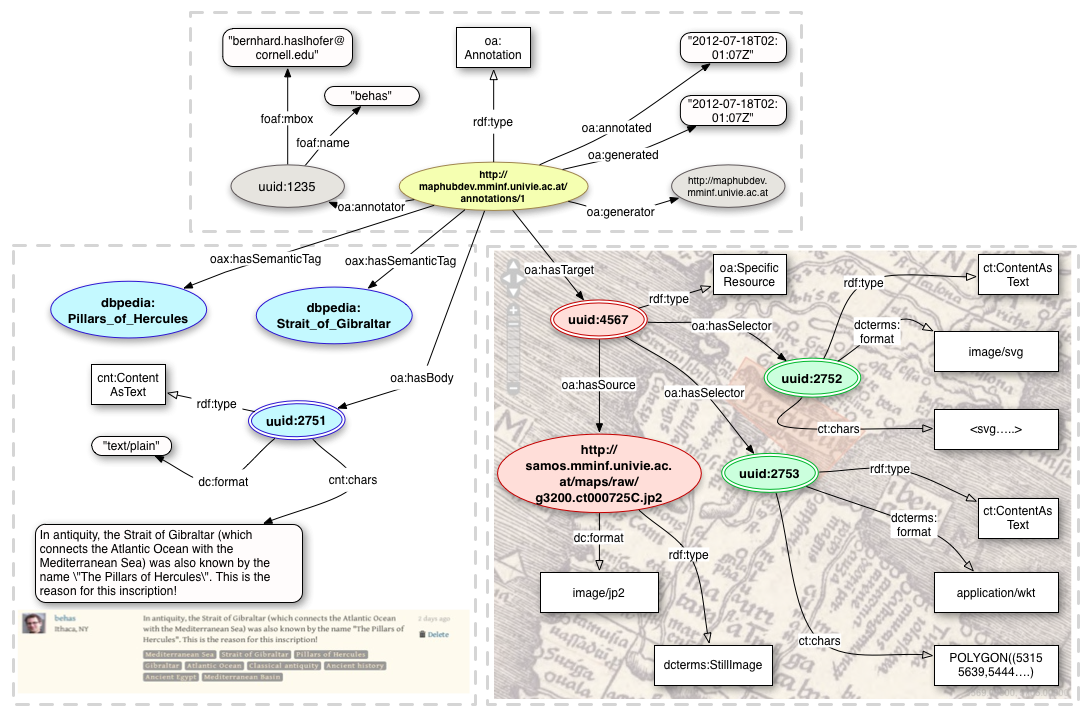
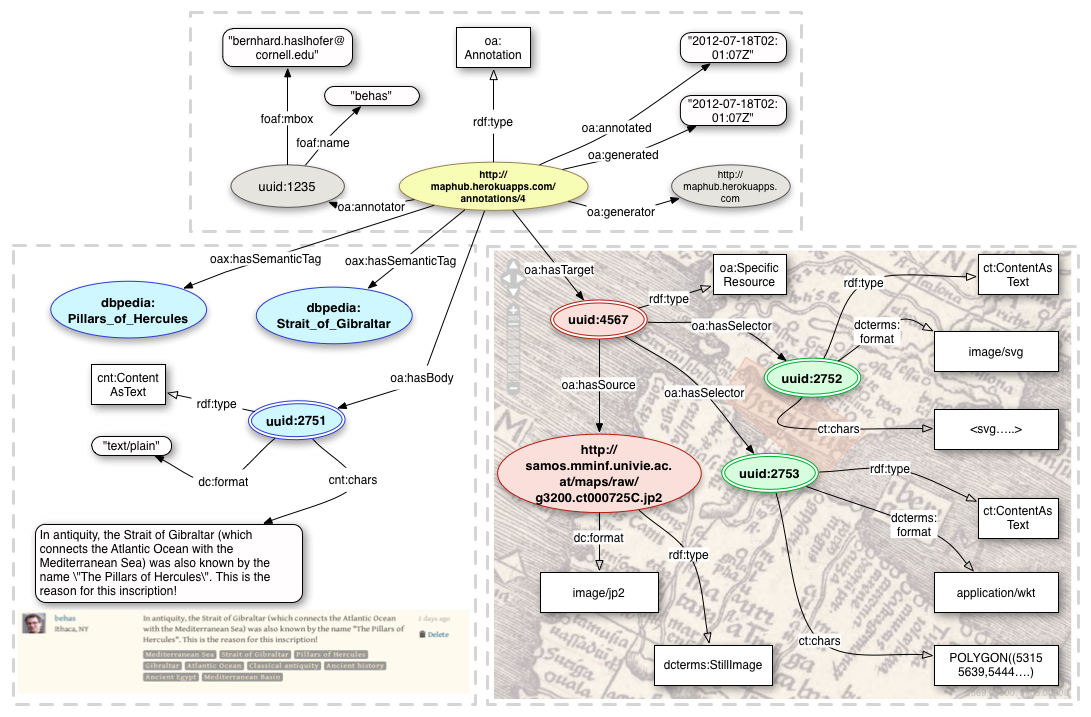
updated api to reflect new deployment environment

Changed region(s): [[0.6233, 0.2148, 0.7479, 0.3068], [0.374, 0.2455, 0.5298, 0.2762], [0.5298, 0.2762, 0.6233, 0.3068]]

diff --git a/index.html b/index.html
@@ -195,7 +195,7 @@ Scholars who study these maps often want to take notes on certain maps or map re
 <p>Georeference Annotations in Maphub are dereferenceable Web resources. When a client issues an HTTP GET request against the Georeference Annotation HTTP URI, Maphub determines the response format based on the value of the HTTP Accept header submitted by the client.</p>
 
 <p>Figure 3 shows an example Georeference Annotation represented in the Open Annotation model. It can be retrieved by executing the following curl request:</br>
-<code>curl -H "Accept: text/turtle" http://maphubdev.mminf.univie.ac.at/control_points/1</code>
+<code>curl -H "Accept: text/turtle" http://maphub.herokuapp.com/control_points/4</code>
 </p>
 
 <center>
@@ -214,36 +214,39 @@ Scholars who study these maps often want to take notes on certain maps or map re
         <div class="exsubhead">Georeference Annotation - Turtle serialization</div>
         <pre class="code">
 
-        @prefix dc: &lt;http://purl.org/dc/elements/1.1/&gt; .
-        @prefix dcterms: &lt;http://purl.org/dc/dcmitype/&gt; .
-        @prefix foaf: &lt;http://xmlns.com/foaf/spec/&gt; .
-        @prefix maphub: &lt;http://maphub.info/ns/vocab#&gt; .
-        @prefix oa: &lt;http://www.w3.org/ns/openannotation/core/&gt; .
-        @prefix oax: &lt;http://www.w3.org/ns/openannotation/extensions/&gt; .
         @prefix rdf: &lt;http://www.w3.org/1999/02/22-rdf-syntax-ns#&gt; .
+        @prefix oa: &lt;http://www.w3.org/ns/openannotation/core/&gt; .
+        @prefix foaf: &lt;http://xmlns.com/foaf/spec/&gt; .
+        @prefix oax: &lt;http://www.w3.org/ns/openannotation/extensions/&gt; .
+        @prefix dcterms: &lt;http://purl.org/dc/dcmitype/&gt; .
+        @prefix dc: &lt;http://purl.org/dc/elements/1.1/&gt; .
+        @prefix maphub: &lt;http://maphub.info/ns/vocab#GeoReference&gt; .
 
-        &lt;http://maphubdev.mminf.univie.ac.at/control_points/1&gt; a oa:Annotation,
-             oax:Tagging,
-             maphub:GeoReference;
-           oa:annotated &quot;2012-07-18T02:01:07Z&quot;^^&lt;http://www.w3.org/2001/XMLSchema#dateTime&gt;;
-           oa:annotator &lt;a88df844-d14b-11e1-b9b2-00163e110825&gt;;
-           oa:generated &quot;2012-07-18T02:01:07Z&quot;^^&lt;http://www.w3.org/2001/XMLSchema#dateTime&gt;;
-           oa:generator &lt;http://maphubdev.mminf.univie.ac.at&gt;;
-           oa:hasTarget &lt;a88ea76c-d14b-11e1-b9b2-00163e110825&gt;;
-           oax:hasSemanticTag &lt;http://sws.geonames.org/2643743/&gt; .
+        &lt;http://maphub.herokuapp.com/control_points/4&gt;
+            a maphub:GeoReference, oa:Annotation, oax:Tagging ;
+            oa:annotated &quot;2012-08-17T17:13:41Z&quot;^^&lt;http://www.w3.org/2001/XMLSchema#dateTime&gt; ;
+            oa:annotator &lt;http://maphub.herokuapp.com/control_points/881c00ca-e892-11e1-a637-1231381d2be6&gt; ;
+            oa:generated &quot;2012-08-17T17:13:41Z&quot;^^&lt;http://www.w3.org/2001/XMLSchema#dateTime&gt; ;
+            oa:generator &lt;http://maphub.herokuapp.com&gt; ;
+            oa:hasTarget &lt;http://maphub.herokuapp.com/control_points/8824e514-e892-11e1-a637-1231381d2be6&gt; ;
+            oax:hasSemanticTag &lt;http://sws.geonames.org/2643743/&gt; .
 
-        &lt;a88df844-d14b-11e1-b9b2-00163e110825&gt; foaf:mbox &quot;bernhard.haslhofer@cornell.edu&quot;;
-           foaf:name &quot;behas&quot; .
+        &lt;http://maphub.herokuapp.com/control_points/881c00ca-e892-11e1-a637-1231381d2be6&gt;
+            foaf:mbox &quot;bernhard.haslhofer@cornell.edu&quot; ;
+            foaf:name &quot;behas&quot; .
 
-        &lt;a88ea76c-d14b-11e1-b9b2-00163e110825&gt; a oa:SpecificResource;
-           oa:hasSelector &lt;a88f6292-d14b-11e1-b9b2-00163e110825&gt;;
-           oa:hasSource &lt;http://samos.mminf.univie.ac.at/maps/raw/g3200.ct000725C.jp2&gt; .
+        &lt;http://maphub.herokuapp.com/control_points/8824e514-e892-11e1-a637-1231381d2be6&gt;
+            a oa:SpecificResource ;
+            oa:hasSelector &lt;http://maphub.herokuapp.com/control_points/88254b62-e892-11e1-a637-1231381d2be6&gt; ;
+            oa:hasSource &lt;http://samos.mminf.univie.ac.at/maps/raw/g3200.ct000725C.jp2&gt; .
 
-        &lt;a88f6292-d14b-11e1-b9b2-00163e110825&gt; a oa:FragmentSelector;
-           rdf:value &quot;xywh=6550,6228,1,1&quot; .
+        &lt;http://maphub.herokuapp.com/control_points/88254b62-e892-11e1-a637-1231381d2be6&gt;
+            a oa:FragmentSelector ;
+            rdf:value &quot;xywh=6551,6231,1,1&quot; .
 
-        &lt;http://samos.mminf.univie.ac.at/maps/raw/g3200.ct000725C.jp2&gt; a dcterms:StillImage;
-           dc:format &quot;image/jp2&quot; .
+        &lt;http://samos.mminf.univie.ac.at/maps/raw/g3200.ct000725C.jp2&gt;
+            dc:format &quot;image/jp2&quot; ;
+            a dcterms:StillImage .
 
         </pre>
         </td>
@@ -260,7 +263,7 @@ Scholars who study these maps often want to take notes on certain maps or map re
 <p>Figure 4 shows an example commentarial map annotation created in Maphub.</p>
 
 <p>The annotation can be retrieved by executing the following curl request:
-<code>curl -H "Accept: text/turtle" http://maphubdev.mminf.univie.ac.at/annotations/1</code>
+<code>curl -H "Accept: text/turtle" http://maphub.herokuapp.com/annotations/4</code>
 </p>
 
 <center>
@@ -311,11 +314,11 @@ Scholars who study these maps often want to take notes on certain maps or map re
             @prefix oax: &lt;http://www.w3.org/ns/openannotation/extensions/&gt; .
             @prefix rdf: &lt;http://www.w3.org/1999/02/22-rdf-syntax-ns#&gt; .
 
-            &lt;http://maphubdev.mminf.univie.ac.at/annotations/1&gt; a oa:Annotation;
+            &lt;http://maphub.herokuapp.com/annotations/4&gt; a oa:Annotation;
                oa:annotated &quot;2012-07-18T02:03:58Z&quot;^^&lt;http://www.w3.org/2001/XMLSchema#dateTime&gt;;
                oa:annotator &lt;274c4218-d14b-11e1-b9b2-00163e110825&gt;;
                oa:generated &quot;2012-07-18T02:03:58Z&quot;^^&lt;http://www.w3.org/2001/XMLSchema#dateTime&gt;;
-               oa:generator &lt;http://maphubdev.mminf.univie.ac.at&gt;;
+               oa:generator &lt;http://maphub.herokuapp.com&gt;;
                oa:hasBody &lt;275163a6-d14b-11e1-b9b2-00163e110825&gt;;
                oa:hasTarget &lt;2751d020-d14b-11e1-b9b2-00163e110825&gt;;
                oax:hasSemanticTag &lt;http://dbpedia.org/resource/Mediterranean_Sea&gt;,
@@ -369,9 +372,9 @@ Scholars who study these maps often want to take notes on certain maps or map re
 
 <p>An annotation index can be retrieved by executing the following curl request:
 <br/>
-<code>curl http://maphubdev.mminf.univie.ac.at/control_points.rdf</code>
+<code>curl http://maphub.herokuapp.com/control_points.rdf</code>
 <br/>
-<code>curl http://maphubdev.mminf.univie.ac.at/annotations.rdf</code>
+<code>curl http://maphub.herokuapp.com/annotations.rdf</code>
 <br/>
 </p>
 
@@ -396,19 +399,19 @@ Scholars who study these maps often want to take notes on certain maps or map re
                 xmlns:dc=&quot;http://purl.org/dc/elements/1.1/&quot;
                 xmlns:foaf=&quot;http://xmlns.com/foaf/0.1/&quot; &gt;
 
-                &lt;rdf:Description rdf:about=&quot;http://maphubdev.mminf.univie.ac.at/control_points&quot;&gt;
+                &lt;rdf:Description rdf:about=&quot;http://maphub.herokuapp.com/control_points&quot;&gt;
                     &lt;rdf:type rdf:resource=&quot;http://www.openarchives.org/ore/terms/Aggregation&quot;/&gt;
                     &lt;dc:title&gt;Maphub Controlpoints&lt;/dc:title&gt;
-                    &lt;ore:aggregates rdf:resource=&quot;http://maphubdev.mminf.univie.ac.at/control_points/1&quot;/&gt;
-                    &lt;ore:aggregates rdf:resource=&quot;http://maphubdev.mminf.univie.ac.at/control_points/2&quot;/&gt;
-                    &lt;ore:aggregates rdf:resource=&quot;http://maphubdev.mminf.univie.ac.at/control_points/3&quot;/&gt;
-                    &lt;ore:aggregates rdf:resource=&quot;http://maphubdev.mminf.univie.ac.at/control_points/4&quot;/&gt;
-                    &lt;ore:aggregates rdf:resource=&quot;http://maphubdev.mminf.univie.ac.at/control_points/9&quot;/&gt;
-                    &lt;ore:aggregates rdf:resource=&quot;http://maphubdev.mminf.univie.ac.at/control_points/10&quot;/&gt;
-                    &lt;ore:aggregates rdf:resource=&quot;http://maphubdev.mminf.univie.ac.at/control_points/11&quot;/&gt;
-                    &lt;ore:aggregates rdf:resource=&quot;http://maphubdev.mminf.univie.ac.at/control_points/12&quot;/&gt;
-                    &lt;ore:aggregates rdf:resource=&quot;http://maphubdev.mminf.univie.ac.at/control_points/13&quot;/&gt;
-                    &lt;ore:aggregates rdf:resource=&quot;http://maphubdev.mminf.univie.ac.at/control_points/14&quot;/&gt;
+                    &lt;ore:aggregates rdf:resource=&quot;http://maphub.herokuapp.com/control_points/1&quot;/&gt;
+                    &lt;ore:aggregates rdf:resource=&quot;http://maphub.herokuapp.com/control_points/2&quot;/&gt;
+                    &lt;ore:aggregates rdf:resource=&quot;http://maphub.herokuapp.com/control_points/3&quot;/&gt;
+                    &lt;ore:aggregates rdf:resource=&quot;http://maphub.herokuapp.com/control_points/4&quot;/&gt;
+                    &lt;ore:aggregates rdf:resource=&quot;http://maphub.herokuapp.com/control_points/9&quot;/&gt;
+                    &lt;ore:aggregates rdf:resource=&quot;http://maphub.herokuapp.com/control_points/10&quot;/&gt;
+                    &lt;ore:aggregates rdf:resource=&quot;http://maphub.herokuapp.com/control_points/11&quot;/&gt;
+                    &lt;ore:aggregates rdf:resource=&quot;http://maphub.herokuapp.com/control_points/12&quot;/&gt;
+                    &lt;ore:aggregates rdf:resource=&quot;http://maphub.herokuapp.com/control_points/13&quot;/&gt;
+                    &lt;ore:aggregates rdf:resource=&quot;http://maphub.herokuapp.com/control_points/14&quot;/&gt;
                 &lt;/rdf:Description&gt;
 
             &lt;/rdf:RDF&gt;
@@ -439,11 +442,14 @@ Scholars who study these maps often want to take notes on certain maps or map re
                 xmlns:dc=&quot;http://purl.org/dc/elements/1.1/&quot;
                 xmlns:foaf=&quot;http://xmlns.com/foaf/0.1/&quot; &gt;
 
-                &lt;rdf:Description rdf:about=&quot;http://maphubdev.mminf.univie.ac.at/annotations&quot;&gt;
+                &lt;rdf:Description rdf:about=&quot;http://maphub.herokuapp.com/annotations&quot;&gt;
                     &lt;rdf:type rdf:resource=&quot;http://www.openarchives.org/ore/terms/Aggregation&quot;/&gt;
                     &lt;dc:title&gt;Maphub Commentarial Annotations&lt;/dc:title&gt;
-                    &lt;ore:aggregates rdf:resource=&quot;http://maphubdev.mminf.univie.ac.at/annotations/1&quot;/&gt;
-                    &lt;ore:aggregates rdf:resource=&quot;http://maphubdev.mminf.univie.ac.at/annotations/5&quot;/&gt;
+                    &lt;ore:aggregates rdf:resource=&quot;http://maphub.herokuapp.com/annotations/1&quot;/&gt;
+                    &lt;ore:aggregates rdf:resource=&quot;http://maphub.herokuapp.com/annotations/2&quot;/&gt;
+                    &lt;ore:aggregates rdf:resource=&quot;http://maphub.herokuapp.com/annotations/3&quot;/&gt;
+                    &lt;ore:aggregates rdf:resource=&quot;http://maphub.herokuapp.com/annotations/4&quot;/&gt;
+                    &lt;ore:aggregates rdf:resource=&quot;http://maphub.herokuapp.com/annotations/5&quot;/&gt;
                 &lt;/rdf:Description&gt;
 
             &lt;/rdf:RDF&gt;        
